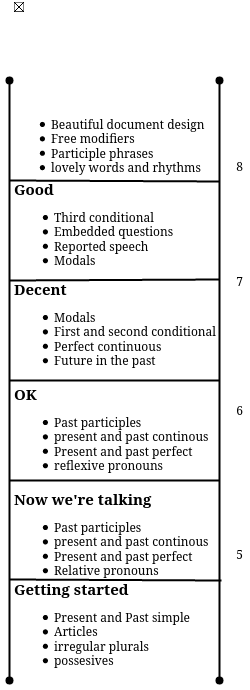
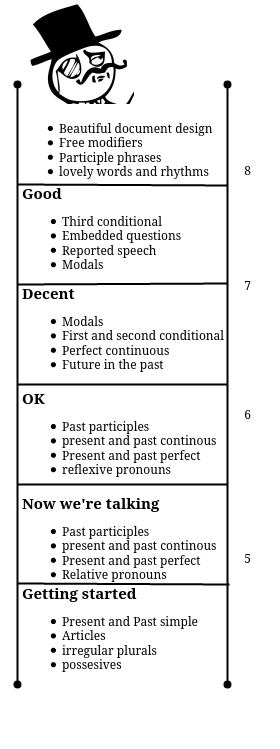
Lints laddar

diff --git a/ladder.md b/ladder.md
@@ -2,54 +2,54 @@ Note: slack links will be removed and the content will be given separate pages. 
 
 # Small explanations and exercises for all levels
 
-Here are ideas for everyone, based on a lot of experience teaching. 
+![Work your way up the ladder](./Images/grammarladder.png)
+
+Here are ideas for everyone, based on a lot of experience teaching.
 Each section begins with easiest topics and ends with the most advanced topics.
 This is especially relevant for grammar and writing; for pronunciation and vocab,
 there's probably good tips for everyone.
 
 * [Pronunciation:](#pronunciation)
-   * [Practice minimal pairs](#practice-minimal-pairs)
-   * [Practice mouth posture](#practice-mouth-posture)
-   * [Advanced-intonation](#advanced-intonation)
+  * [Practice minimal pairs](#practice-minimal-pairs)
+  * [Practice mouth posture](#practice-mouth-posture)
+  * [Advanced-intonation](#advanced-intonation)
 * [Grammar](#grammar)
-   * Getting started:
-     * [Articles](#articles)
-     * [Irregular plurals](#irregular-plurals)
-     * [Continuous vs simple](#continuous-vs-simple)
-     * MISSING: conjunctions and relative pronouns
-   * A little more sophisticated:
-     * [Drill the past participles.](#drill-the-past-participles)
-     * [Perfect aspect](#perfect-aspect)
-     * [Present perfect continuous](#present-perfect-continuous)
-     * MISSING: Modals
-   * Almost there
-     * [Conditionals, 1 and 2](#conditionals-1-and-2)
-     * [Past perfect](#past-perfect)
-     * [3rd conditional](#3rd-conditional)
-   * After this, see the [Writing section](#writing)
-     * [Understand clauses](#understand-clauses)
-     * [Embedded questions/Reported speech](#embedded-questionsreported-speech)
+  * [Getting started](#getting-started):
+    * [Articles](#articles)
+    * [Irregular plurals](#irregular-plurals)
+    * [Continuous vs simple](#continuous-vs-simple)
+    * MISSING: conjunctions and relative pronouns
+* Now you're talking:
+  * [Drill the past participles.](#drill-the-past-participles)
+    * [Perfect aspect](#perfect-aspect)
+    * [Present perfect continuous](#present-perfect-continuous)
+    * MISSING: Modals
+* Decent
+  * [Conditionals, 1 and 2](#conditionals-1-and-2)
+  * [Past perfect](#past-perfect)
+  * [3rd conditional](#3rd-conditional)
+* After this, see the [Writing section](#writing)
+  * [Understand clauses](#understand-clauses)
+  * [Embedded questions/Reported speech#embedded-questionsreported-speech)
 * [Vocab:](#vocab-1)
-   * [Prepositions](#prepositions)
-   * [Phrasal verbs](#phrasal-verbs)
-   * [Collocations](#collocations)
+  * [Prepositions](#prepositions)
+  * [Phrasal verbs](#phrasal-verbs)
+  * [Collocations](#collocations)
 * [Fluency](#fluency)
-    * [Think aloud](#think-aloud)
-    * [Practice describing images](#practice-describing-images)
-    * [Listen/watch content with dense amounts of language](#listenwatch-content-with-dense-amounts-of-language)
+  * [Think aloud](#think-aloud)
+  * [Practice describing images](#practice-describing-images)
+  * [Listen/watch content with dense amounts of language](#listenwatch-content-with-dense-amounts-of-language)
 * [Writing](#writing)
   * [Understanding clauses](#understanding-clauses)
   * [Google technical writing courses](#google-technical-writing-courses)
   * [Subordinating clauses/logical connectors](#subordinating-clauseslogical-connectors)
   * [Advanced techniques](#advanced-techniques)
 
-
 ----
 
 Supplementary
 
-For everything above, you could search expressions in Youglish. E.g. take 
-piece of a grammar structure ("had been going") and search on Youglish to
+For everything above, you could search expressions in Youglish. E.g. take piece of a grammar structure ("had been going") and search on Youglish to
 see how real people are using it. Don't only listen, but repeat what they say,
 this will enforce pronunciation and creation of natural expression.
 
@@ -61,42 +61,39 @@ Look for opportunities to use what you've learned in your daily life.
 
 ----
 
-## Pronunciation: 
+## Pronunciation
 
 ### Practice minimal pairs
 
-http://tedpower.co.uk/l1russian.html
+[Special list for slavs](http://tedpower.co.uk/l1russian.html)
 
+* [ship vs sheep](https://www.englishclub.com/pronunciation/minimal-pairs-e-i.htm)
+* [Minimal Pair initial /v/ and /w/](https://www.englishclub.com/pronunciation/minimal-pairs-v-w-initial.php)
 
-* ship vs sheep https://www.englishclub.com/pronunciation/minimal-pairs-e-i.htm
-* Minimal Pair initial /v/ and /w/: https://www.englishclub.com/pronunciation/minimal-pairs-v-w-initial.php
-
-To learn how to pronounce words like "opaque," research the magic "E"
-https://www.youtube.com/watch?v=dsW5qQ2B_xE
+To learn how to pronounce words like "opaque," [research the magic "E"](https://www.youtube.com/watch?v=dsW5qQ2B_xE)
 
 ### Practice mouth posture
 
 American accent comes from the fact that all Americans generally position their
 mouths in the same way. Practicing how to pronounce words could pay big dividends.
 
-https://rachelsenglish.com/mouth-position-study/
+* [Mouth posture](https://rachelsenglish.com/mouth-position-study/)
 
 ### Advanced-intonation
 
 This video 30 minutes long and pretty detailed, but it's probably a good
 investment of time for deep listening and producing natural English rhythms.
 
-* https://rachelsenglish.com/english-pronunciation-analysis/
-
+* [From Rachel's English](https://rachelsenglish.com/english-pronunciation-analysis/)
 
 ## Grammar
 
-1. ### Getting started
+### Getting started
 
 #### Articles
 
-Practice inserting articles into a text. See my post here:
-https://ivelum.slack.com/archives/C0YNKL553/p1611856073120200
+Practice inserting articles into a text. [See my post here](
+https://ivelum.slack.com/archives/C0YNKL553/p1611856073120200)
 
 #### Irregular plurals
 
@@ -128,14 +125,13 @@ Past
 "The cow was eating grass" ─ a non-finished event, so we are speaking from
 "inside" another past moment.
 
-I personally wrote much more info here: https://github.com/MattDodsonEnglish/English-Learning-Wiki/blob/master/Grammar/verb-guide/aspect.md#the-continuous-aspect-describes-ongoing-activity
-
 Exercises:
-* https://www.perfect-english-grammar.com/present-simple-present-continuous-1.html
+
+* [Present simple vs present continuous](https://www.perfect-english-grammar.com/present-simple-present-continuous-1.html)
 
 ### A little more sophisticated
 
-#### Drill the past participles.
+#### Drill the past participles
 
 The past participles (sometimes called verb-3) are the verb forms that appear
 in perfect constructions, after "have/has/had":
@@ -157,9 +153,9 @@ using them where they should be:
 All of the grammar below uses the past participles. So, when you're practicing
 why not use this list of irregular ones?
 
-* Irregular past participles. https://www.woodwardenglish.com/lesson/irregular-past-participles/
+* [Irregular past participles](https://www.woodwardenglish.com/lesson/irregular-past-participles/)
 
-#### Perfect aspect 
+#### Perfect aspect
 
 The perfect provides background information to other events.
 
@@ -179,18 +175,18 @@ perfect("will have been")... well what do you think?
 #### Present perfect continuous
 
 So, the continuous is for ongoing, and the perfect is for linking. In
-that case, the perfect continuous must be to link an ongoing event to 
+that case, the perfect continuous must be to link an ongoing event to
 a later event
 
 Exercises:
-* Present perfect, or present perfect continuous? https://www.perfect-english-grammar.com/present-perfect-simple-or-present-perfect-continuous.html
+
+* [Present perfect, or present perfect continuous?](https://www.perfect-english-grammar.com/present-perfect-simple-or-present-perfect-continuous.html)
 
 ### Almost there
 
 At this point, you'll need to understand at a conceptual level the idea
 of clauses. However, you don't need to get too technical with it. If
-you want to, check out the [clause section in writing advice](#understand-clauses) 
-
+you want to, check out the [clause section in writing advice](#understand-clauses)
 
 ### Conditionals, 1 and 2
 
@@ -209,15 +205,15 @@ moves to the past tense ("would" is the past of "will).
 
 > If the alien got tired, it would take a nap.
 
-* (practice the conditionals here)[https://www.perfect-english-grammar.com/first-conditional-exercise-1.html]
-* (practice the second here.)[https://www.perfect-english-grammar.com/conditional-exercises.html]
+* [practice the conditionals here](https://www.perfect-english-grammar.com/first-conditional-exercise-1.html)
+* [practice the second here.](https://www.perfect-english-grammar.com/conditional-exercises.html)
 * [practice both:](https://www.perfect-english-grammar.com/support-files/all_conditionals_form_mixed_exercise.pdf)
 
 ### Past perfect
 
 For describing how one past event relates to another past event.
 
->I hadn't logged in so I didn't see your message 
+>I hadn't logged in so I didn't see your message
 
 (linking how "not logging in" relates to "not seeing")
 
@@ -226,8 +222,9 @@ Or you can try the continuous version:
 > I had been working all day, so I was tired
 
 Exercises:
-* Past perfect vs past continuous: https://elt.oup.com/student/solutions/upperint/grammar/grammar_02_022e?cc=ar&selLanguage=en
-*  Past simple vs Past perfect: https://www.perfect-english-grammar.com/past-perfect-exercise-3.html
+
+* [Past perfect vs past continuous](https://elt.oup.com/student/solutions/upperint/grammar/grammar_02_022e?cc=ar&selLanguage=en)
+* [Past simple vs Past perfect](https://www.perfect-english-grammar.com/past-perfect-exercise-3.html)
 
 ### 3rd conditional
 
@@ -240,12 +237,9 @@ From here, you can also describe past probabilities and advice:
 >I should've known, I could have been smart if I had studied
 
 Exercises:
-* 3rd conditional https://www.perfect-english-grammar.com/third-conditional.html
-* Could have/would have/: https://learningenglish.voanews.com/a/everyday-grammar-could-have-should-have-would-have/3391128.html
-## Vocab:
 
-Learn collocations between make, do, and take:
-* https://english.lingolia.com/en/vocabulary/confusing-words/make-do-take
+* [3rd conditional](https://www.perfect-english-grammar.com/third-conditional.html)
+* [Could have/would have/should have](https://learningenglish.voanews.com/a/everyday-grammar-could-have-should-have-would-have/3391128.html)
 
 ### Embedded questions/Reported speech
 
@@ -263,19 +257,24 @@ The result is that, if the main clause is past tense, the sub-clause will be mad
 
 "He said 'I have seen that movie'"→ "he said he had seen that movie"
 
-* exercise about embedded questions: https://www.perfect-english-grammar.com/embedded-questions.html
-* exercise about reported speech: https://www.perfect-english-grammar.com/reported-speech.html
+* exercise about [embedded questions](https://www.perfect-english-grammar.com/embedded-questions.html)
+* exercise about [reported speech](https://www.perfect-english-grammar.com/reported-speech.html)
 
-## Vocab:
+## Vocab
+
+### Collocations
+
+* [Learn collocations between make, do, and take](
+https://english.lingolia.com/en/vocabulary/confusing-words/make-do-take)
 
 ### Prepositions
 
 Let's face it: prepositions are a huge pain in the ass to master. Very often
 there's no logic, or there may be more than one correct answer. In my opionion
-by far the best thing to do is make Anki cards that have whole Russian sentences 
+by far the best thing to do is make Anki cards that have whole Russian sentences
 on one side, that you must translate in English.
 
-Only mark the card "good" if you can translate the entire sentence, with the 
+Only mark the card "good" if you can translate the entire sentence, with the
 proper preposition. After a while, it'll become automatic to produce the perfect
 sentence, which will enforce good vocabulary patterns.
 
@@ -287,13 +286,7 @@ Vocab is a huge topic, but one way you could improve, and sound natural,
 is by learning some more advanced phrasal verbs. With flash cards, it wouldn't
 be too hard to learn these.
 
-* https://breakoutenglish.com/advanced-cae/phrasal-verbs/
-
-
-### Collocations 
-
-*  Learn collocations between make, do, and take:
-* https://english.lingolia.com/en/vocabulary/confusing-words/make-do-take
+* [Advanced phrasal verbs](https://breakoutenglish.com/advanced-cae/phrasal-verbs/)
 
 ## Fluency
 
@@ -346,7 +339,6 @@ find that yourself.
 Two books I can highly recommend are *Trees, Maps, and Theorems* and *Style: Clarity
 and Grace*. Some of these ideas are from there.
 
-
 ### Understand clauses
 
 This topic is a little theoretical, but learning should pay huge dividend. Once
@@ -362,39 +354,42 @@ These sentences have one clause:
 
 And these have two clauses:
 
-> I am writing a report and my friend is talking on the phone.(Subj: -I, -friend; verbs: -write, -talk) 
-
+> I am writing a report and my friend is talking on the phone.(Subj: -I, -friend; verbs: -write, -talk)
 >I am writing a report about how we learn clauses. (Subj: I , we ; verbs: write; learn)
 
 However these two sentences have clauses in different ways. One sentence
-can be broken into two complete sentence, the other cannot. Which one can't
-be broken down? 
+can be broken into two complete sentence, the other cannot. Which one can't be broken down?
 
 "how we learn clauses" can't be it's own clause. So, it's what we call
 a subclause. Remove "and" and the first sentence functions perfectly fine
 as two. These are called independent clauses.
 
 As you can see, I could theoretically break these sentences down into YAML-like
-objects. 
+objects.
 
 ```YAML
-clause: "how we learn"
-  type: "sub-clause"
-  dependency: "I am writing"
-  subject "we"
+clause: "how we learn clauses"
+  main or sub: "sub-clause"
+    type: "relative clause"
+    dependency: "I am writing"
+  subject: "we"
+  verb: "learn"
+  object: "clauses"
+clause: "I am writing a report"
+  main or sub: "main"
+  subject: I
+  verb: write
+    auxiliary: am
 ```
 
-I'm not going to continue with that because I want to keep my reports relatively short.
+I could go on, but I want to keep my reports relatively short.
 
-Once you have figured out how to identify clauses, you will be able to always
-navigate to the core items of a sentence.
+Once you have figured out how to identify clauses, you will be able to always navigate to the core items of a sentence.
 
-This engvid video taught me the concept, I hope it will help you:
-https://www.youtube.com/watch?v=7BsBbZqwU-c
+[This engvid video](https://www.youtube.com/watch?v=7BsBbZqwU-c) taught me the concept, I hope it will help you:
 
 Once you've learned them. It'll help your writing. Follow this simple guideline:
-_put the main clause in the main point_
-
+_put the main point in the main clause._
 
 ### Google technical writing courses
 
@@ -405,7 +400,8 @@ you a little grammar.
 * [Part two](https://developers.google.com/tech-writing/two)
 
 After that, you can look at this guide for reference anytime:
-* [Google style guide](https://developers.google.com/style/lists)
+
+* [Google style guide](https://developers.google.com/style/lists=)
 
 ### Subordinating clauses/logical connectors
 
@@ -432,7 +428,7 @@ Check your answers and see [a lot more examples here](https://staff.washington.e
 
 ### Advanced techniques
 
-* Practice writing with modifiers. See this slack post: https://ivelum.slack.com/archives/C0YNKL553/p1611239052014200
+* Practice writing with modifiers. See this [slack post](https://ivelum.slack.com/archives/C0YNKL553/p1611239052014200)
 * Think about sub and main clause. In technical writing, put the most important
 info in the main clause.
 * Revise paragraphs. Try to think about what the paragraph's main point is.
